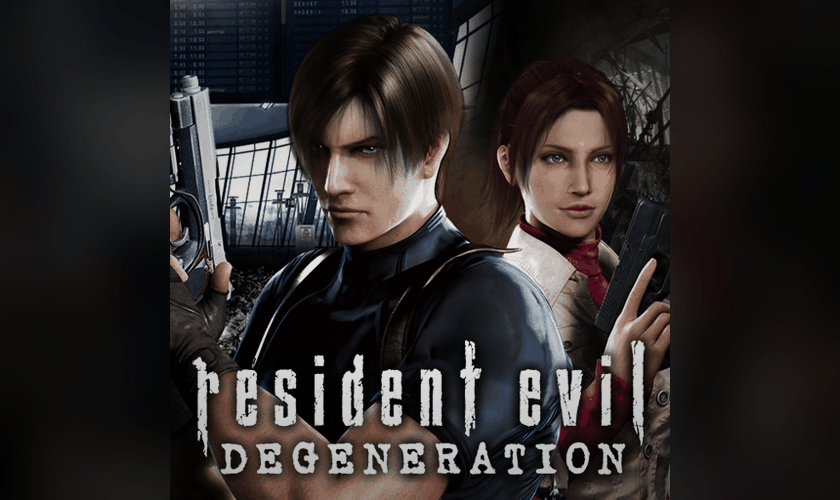
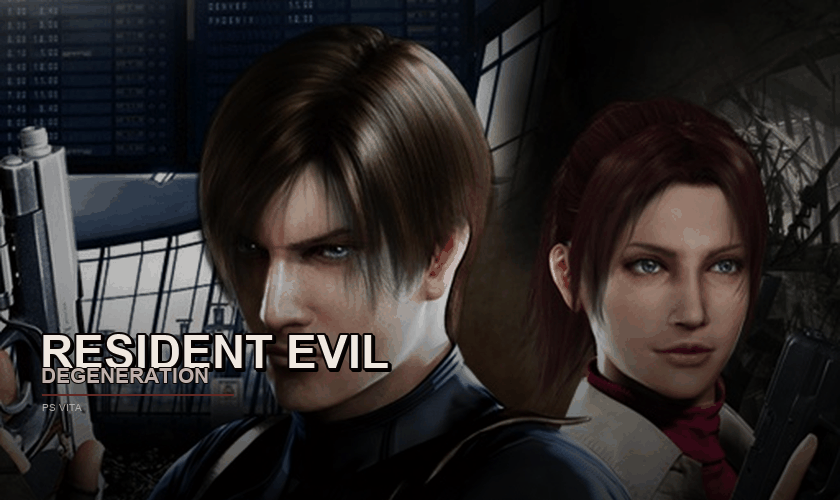
Make LiveArea art full-bleed
Use a widescreen crop of the original key art for pic0/bg0 so the artwork fills the whole sheet instead of sitting in a square/4:3 centre area. Keep the startup image 16:9.

diff --git a/tools/make_livearea.py b/tools/make_livearea.py
@@ -44,11 +44,11 @@ def gradient(w, h, top=(22, 6, 7), bottom=(3, 2, 3)):
     return img
 
 
-def cover(img, w, h):
+def cover(img, w, h, top_frac=0.5):
     scale = max(w / img.width, h / img.height)
     resized = img.resize((max(1, int(img.width * scale)), max(1, int(img.height * scale))), Image.Resampling.LANCZOS)
     x = (resized.width - w) // 2
-    y = (resized.height - h) // 2
+    y = int((resized.height - h) * top_frac)
     return resized.crop((x, y, x + w, y + h))
 
 
@@ -81,45 +81,63 @@ def make_icon(src):
     save_indexed(im, LIVE / "icon0.png")
 
 
+def add_caption(base, title_size, sub_size, x, y):
+    d = ImageDraw.Draw(base)
+    try:
+        title_font = ImageFont.truetype(FONT_BOLD, title_size)
+        sub_font = ImageFont.truetype(FONT_BOLD, sub_size)
+        small_font = ImageFont.truetype(FONT_REGULAR, max(10, sub_size // 2))
+    except OSError:
+        title_font = sub_font = small_font = ImageFont.load_default()
+
+    d.text((x + 2, y + 2), "RESIDENT EVIL", font=title_font,
+           fill=(0, 0, 0), stroke_width=2, stroke_fill=(0, 0, 0))
+    d.text((x, y), "RESIDENT EVIL", font=title_font,
+           fill=(240, 232, 224), stroke_width=2, stroke_fill=(10, 4, 4))
+    d.text((x + 1, y + int(title_size * 0.82)), "DEGENERATION", font=sub_font,
+           fill=(200, 176, 172), stroke_width=1, stroke_fill=(10, 4, 4))
+    line_y = y + int(title_size * 1.48)
+    d.line([(x + 2, line_y), (x + int(title_size * 4.2), line_y)],
+           fill=(160, 28, 24), width=max(2, title_size // 22))
+    d.text((x + 2, line_y + max(6, sub_size // 3)), "PS VITA",
+           font=small_font, fill=(180, 170, 165))
+
+
 def make_pic0(src):
     w, h = 960, 544
-    base = gradient(w, h).convert("RGBA")
-    base = Image.alpha_composite(base, red_glow((w, h)))
+    # Full-bleed 16:9 crop from the top of the key art (faces, not the logo).
+    base = cover(src, w, h, 0.0).convert("RGBA")
+    base = ImageEnhance.Brightness(base).enhance(0.86)
+    base = ImageEnhance.Contrast(base).enhance(1.04)
 
-    # A dark, blurred copy fills the frame without competing with the key art.
-    backdrop = cover(src, w, h).filter(ImageFilter.GaussianBlur(26))
-    backdrop = ImageEnhance.Brightness(backdrop).enhance(0.30)
-    base = Image.alpha_composite(base, backdrop.convert("RGBA"))
+    shade = Image.new("RGBA", (w, h), (0, 0, 0, 0))
+    sd = ImageDraw.Draw(shade)
+    for y in range(h):
+        a = int(155 * max(0, (y - int(h * 0.55)) / max(1, h - int(h * 0.55))))
+        sd.line([(0, y), (w, y)], fill=(0, 0, 0, a))
+    base = Image.alpha_composite(base, shade)
+    base = vignette(base.convert("RGB"), 0.35).convert("RGBA")
 
-    art = src.resize((500, 500), Image.Resampling.LANCZOS)
-    art = ImageEnhance.Contrast(art).enhance(1.03)
-    base.paste(art, (230, 18))
-
-    base = vignette(base.convert("RGB"), 0.42).convert("RGBA")
-    d = ImageDraw.Draw(base)
-    d.line([(230, 526), (730, 526)], fill=(150, 22, 20, 220), width=2)
-    try:
-        font = ImageFont.truetype(FONT_BOLD, 15)
-    except OSError:
-        font = ImageFont.load_default()
-    d.text((230, 533), "PS VITA", font=font, fill=(180, 170, 165))
+    add_caption(base, 54, 24, 48, 365)
     save_indexed(base, LIVE / "pic0.png")
 
 
 def make_bg0(src):
     w, h = 840, 500
-    base = gradient(w, h).convert("RGBA")
-    base = Image.alpha_composite(base, red_glow((w, h)))
+    # Full-bleed crop for the gate background, no square/4:3 centre image.
+    base = cover(src, w, h, 0.0).convert("RGBA")
+    base = ImageEnhance.Brightness(base).enhance(0.86)
+    base = ImageEnhance.Contrast(base).enhance(1.04)
 
-    backdrop = cover(src, w, h).filter(ImageFilter.GaussianBlur(26))
-    backdrop = ImageEnhance.Brightness(backdrop).enhance(0.30)
-    base = Image.alpha_composite(base, backdrop.convert("RGBA"))
+    shade = Image.new("RGBA", (w, h), (0, 0, 0, 0))
+    sd = ImageDraw.Draw(shade)
+    for y in range(h):
+        a = int(155 * max(0, (y - int(h * 0.55)) / max(1, h - int(h * 0.55))))
+        sd.line([(0, y), (w, y)], fill=(0, 0, 0, a))
+    base = Image.alpha_composite(base, shade)
+    base = vignette(base.convert("RGB"), 0.35).convert("RGBA")
 
-    art = src.resize((500, 500), Image.Resampling.LANCZOS)
-    art = ImageEnhance.Contrast(art).enhance(1.03)
-    base.paste(art, (170, 0))
-
-    base = vignette(base.convert("RGB"), 0.42)
+    add_caption(base, 46, 21, 40, 326)
     save_indexed(base, LIVE / "bg0.png")
 
 
